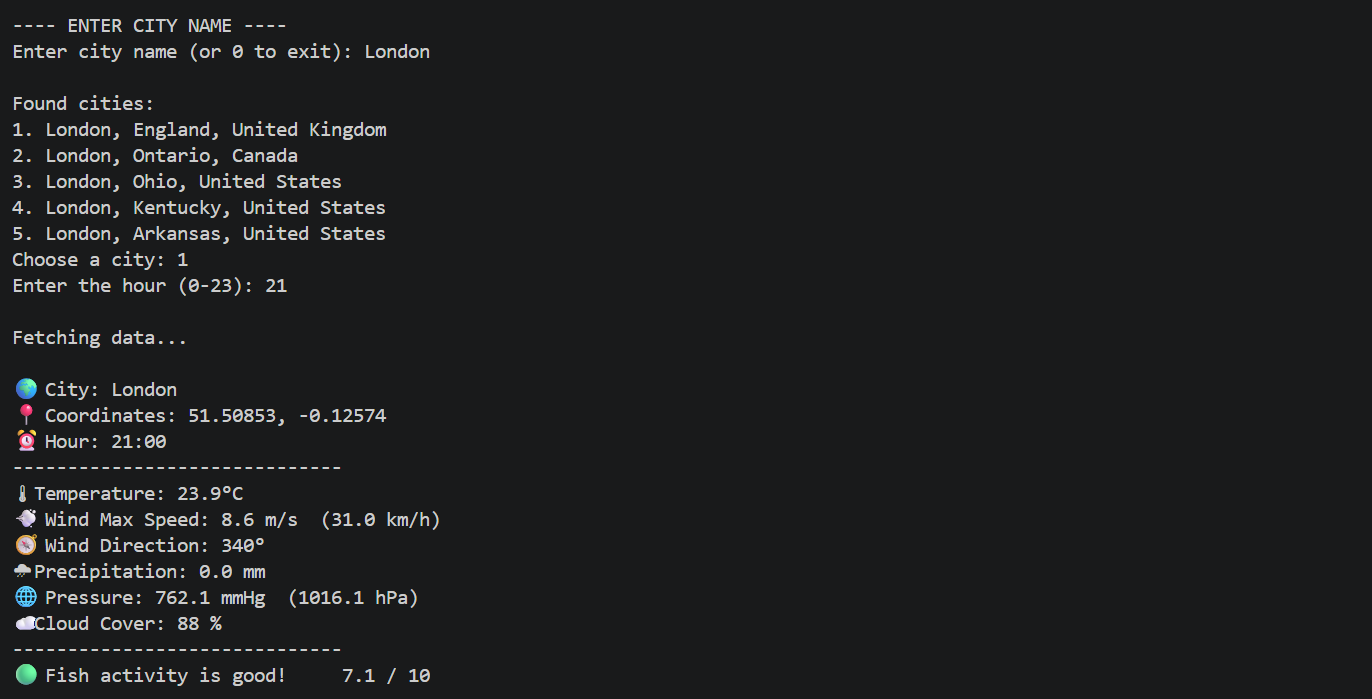
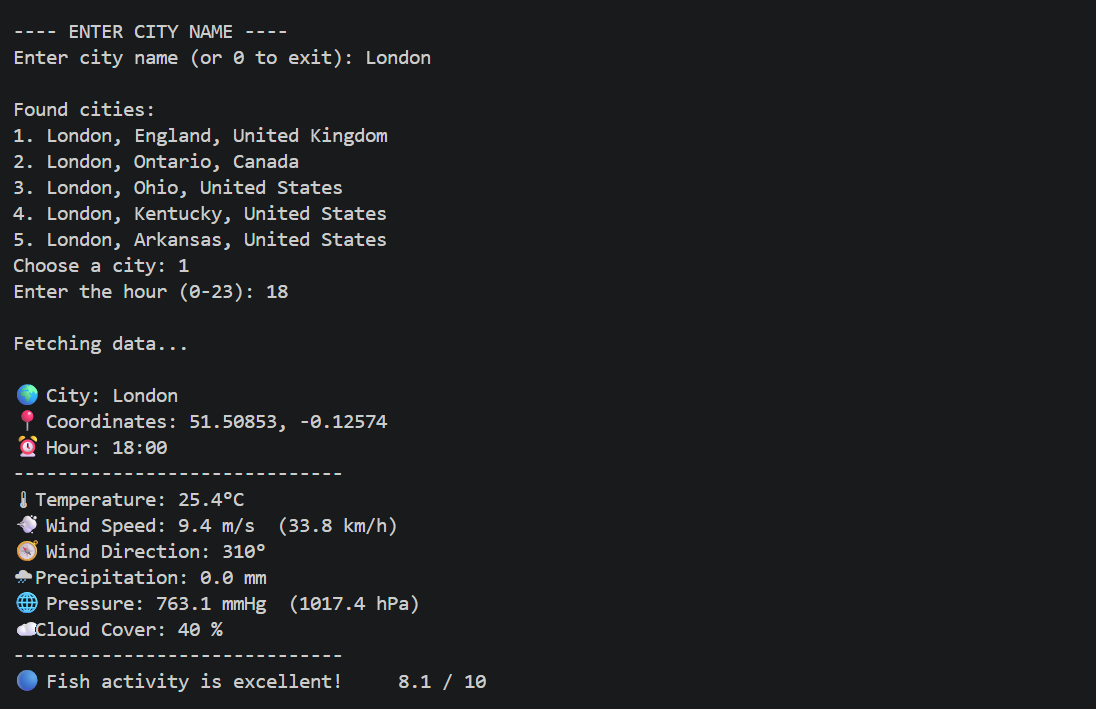
Update README, code and screenshot

diff --git a/main.py b/main.py
@@ -192,7 +192,7 @@ while True:
     print(f"⏰ Hour: {hour}:00")
     print("------------------------------")
     print(f"🌡 Temperature: {temp}°C")
-    print(f"💨 Wind Max Speed: {wind_speed} m/s  ({round(wind_speed*3.6, 1)} km/h)")
+    print(f"💨 Wind Speed: {wind_speed} m/s  ({round(wind_speed*3.6, 1)} km/h)")
     print(f"🧭 Wind Direction: {wind_direction}°")
     print(f"🌧 Precipitation: {rain} mm")
     print(f"🌐 Pressure: {round(pressures * 0.75006, 1)} mmHg  ({pressures} hPa)")

diff --git a/README.md b/README.md
@@ -52,7 +52,7 @@ python main.py
 
 ## Example
 
-Example of program output:
+Example Output:
 
 ```text
 City: London
@@ -60,7 +60,7 @@ Coordinates: 51.50853, -0.12574
 Hour: 21:00
 --------------------------------
 Temperature: 24.0°C
-Wind Max Speed: 6.8 m/s  (24.5 km/h)
+Wind Speed: 6.8 m/s  (24.5 km/h)
 Wind Direction: 344°
 Precipitation: 0.0 mm
 Pressure: 762.1 mmHg  (1016.1 hPa)
@@ -70,7 +70,7 @@ Fishing activity is excellent!     7.1/10
 ```
 
 ## Screenshot
-Example of program outpot:
+Example of program output:
 ![Fishing forecast example](screenshots/fishing_forecast_example.png)
 
 ## Future Improvements
